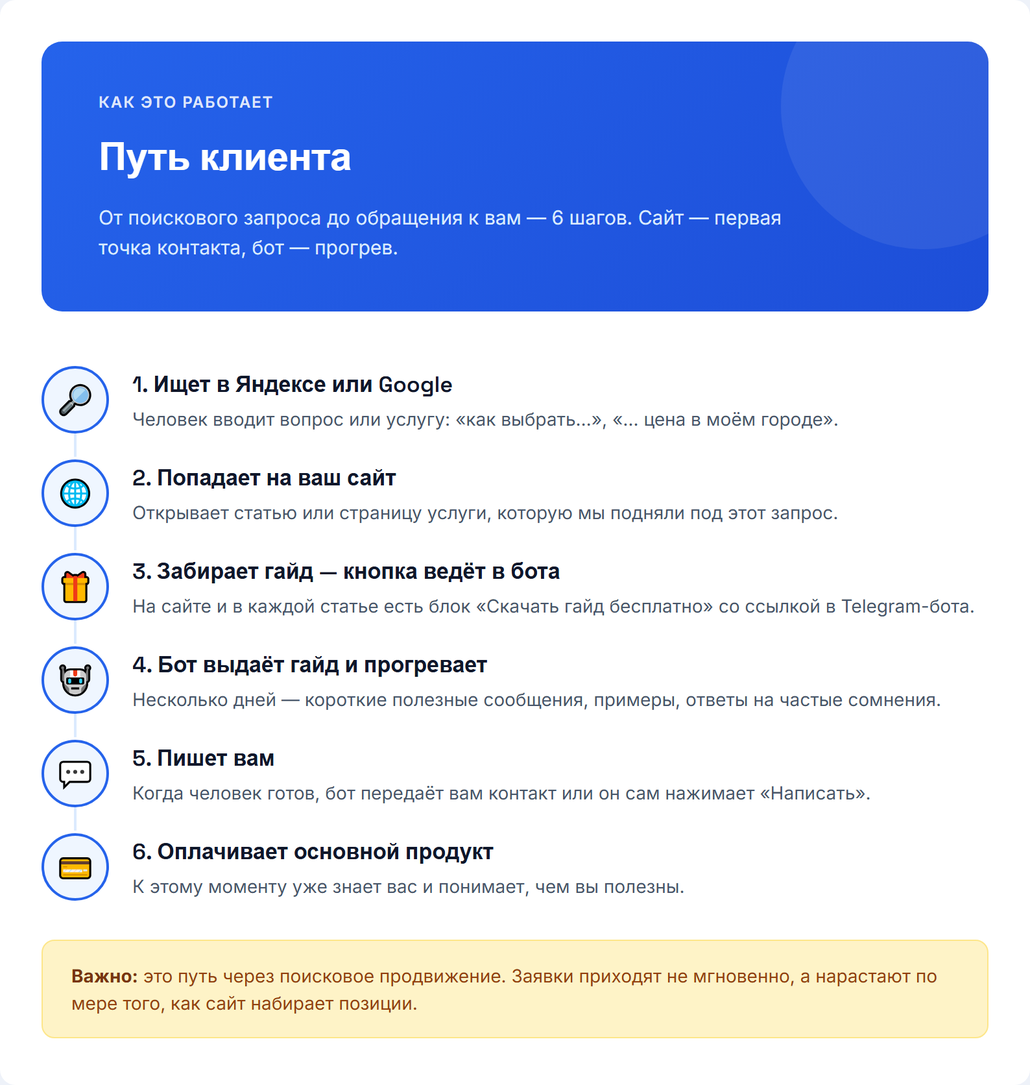
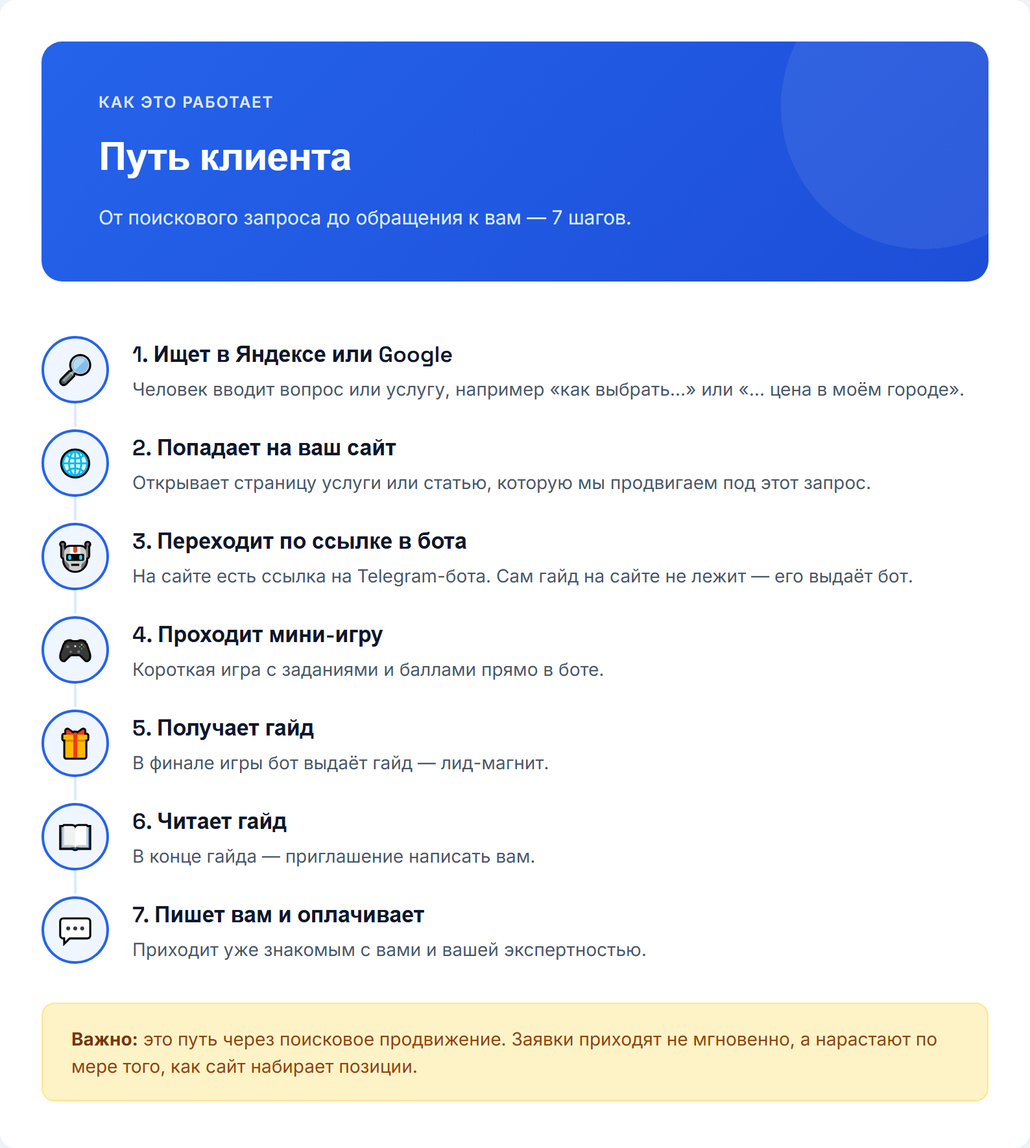
Rework funnel: paid SEO package, bot mini-game, bot promotion plan

Changed region(s): [[0.0309, 0.1866, 0.9565, 0.9641], [0.0926, 0.0622, 0.3394, 0.1555]]

diff --git a/index.html b/index.html
@@ -25,16 +25,13 @@ pre{white-space:pre-wrap;word-wrap:break-word;font:14px/1.55 'Inter',sans-serif;
 @media(max-width:820px){.item{grid-template-columns:34px 1fr}.pic,.txt{grid-column:1 / -1}.num{grid-row:1}}
 </style></head><body>
 <div class="top"><h1>Сообщения SEO-воронки — по порядку</h1>
-<p>Слева картинка, справа текст сообщения. Шаги идут в том порядке, в каком их отправляют клиенту.</p>
+<p><a href="bot-promotion.html" style="color:#1d4ed8;font-weight:600">Отдельно: план продвижения бота и гайда →</a></p><p>Слева картинка, справа текст сообщения. Шаги идут в том порядке, в каком их отправляют клиенту.</p>
 <span class="hint">📱 С телефона: зажмите картинку пальцем → «Сохранить в Фото». С компьютера: правая кнопка → «Сохранить картинку как…» или ссылка «Скачать файл».</span></div>
 <div class="list">
 <section class="item" id="m1">
   <div class="num">1</div>
   <div class="pic none">Без картинки</div>
-  <div class="txt"><h3>/первое_сообщение</h3><div class="meta">Без изменений.</div><pre>Это рабочий чат — здесь будем вести ваш проект от сегодняшнего дня до поставленных задач.
-
-Вести ваш проект будет проектный менеджер {ИМЯ_ПМ} — {НИК_ПМ}.
-У {ИМЯ_ПМ} большой опыт — поможет с вопросами и внесёт правки по необходимости.
+  <div class="txt"><h3>/первое_сообщение</h3><div class="meta">Без абзаца про проектного менеджера</div><pre>Это рабочий чат — здесь будем вести ваш проект от сегодняшнего дня до поставленных задач.
 
 Рады, что вы с нами 🙏</pre><button class="btn" data-i="0">Скопировать текст</button></div>
 </section>
@@ -70,50 +67,114 @@ pre{white-space:pre-wrap;word-wrap:break-word;font:14px/1.55 'Inter',sans-serif;
 <section class="item" id="m3">
   <div class="num">3</div>
   <div class="pic"><img src="img/terms.png" alt="/термины" loading="lazy" width="794"><a class="dl" href="img/terms.png" download="terms.png">Скачать файл</a></div>
-  <div class="txt"><h3>/термины</h3><div class="meta">Картинка «1 · термины» + подпись</div><pre>Пара терминов, которые будут встречаться в переписке — коротко объясняем:</pre><button class="btn" data-i="2">Скопировать текст</button></div>
+  <div class="txt"><h3>/термины</h3><div class="meta">Картинка + подпись</div><pre>Пара терминов, которые будут встречаться в переписке — коротко объясняем:</pre><button class="btn" data-i="2">Скопировать текст</button></div>
 </section>
 <section class="item" id="m4">
   <div class="num">4</div>
   <div class="pic"><img src="img/path.png" alt="/путь_клиента" loading="lazy" width="794"><a class="dl" href="img/path.png" download="path.png">Скачать файл</a></div>
-  <div class="txt"><h3>/путь_клиента</h3><div class="meta">Картинка «2 · путь клиента» + подпись</div><pre>Вот как человек проходит путь от поиска в Яндексе до обращения к вам.
+  <div class="txt"><h3>/путь_клиента</h3><div class="meta">Картинка + подпись</div><pre>Вот как человек проходит путь от поиска в Яндексе до обращения к вам.
 
 Важно: это путь через поисковое продвижение. Заявки приходят не мгновенно, а нарастают по мере того, как сайт набирает позиции.</pre><button class="btn" data-i="3">Скопировать текст</button></div>
 </section>
 <section class="item" id="m5">
   <div class="num">5</div>
-  <div class="pic none">Без картинки</div>
-  <div class="txt"><h3>/сайт_отправка</h3><div class="meta">Меняется абзац про заявки; правила правок оставляем как были</div><pre>Здравствуйте! @{НИК_КЛИЕНТА}
-
-Сайт:
-
-{ССЫЛКА_НА_САЙТ}
-
-Сайт — главная точка входа: его мы будем продвигать в поиске. Кнопки на сайте и в статьях ведут в Telegram-бота, где человек получает гайд и проходит прогрев. Для активации запустите бота по ссылке ниже:
-
-{DEEP_LINK_БОТА}
-
-Правки вносятся один раз — соберите все пожелания в одно текстовое сообщение (скриншоты и голосовые не принимаются техспециалистом), если потребуется что-то поправить.
-
-Если нужно добавить фото — присылайте ТОЛЬКО ссылкой на Яндекс.Диск с открытым доступом («доступно всем, у кого есть ссылка»), мы извлечём фото оттуда. По-другому техспециалист и программа файлы не принимают.
-
-Также нужно уточнить пару моментов:
-1. {ЗАГЛУШКА_1}
-2. {ЗАГЛУШКА_2}
-
-Когда напишете все правки, обязательно добавьте фразу, что это всё — так мы поймём, что можно брать правки в работу.</pre><button class="btn" data-i="4">Скопировать текст</button></div>
+  <div class="pic"><img src="img/bot.png" alt="/бот_как_работает (вместо /прогрев_бота)" loading="lazy" width="794"><a class="dl" href="img/bot.png" download="bot.png">Скачать файл</a></div>
+  <div class="txt"><h3>/бот_как_работает (вместо /прогрев_бота)</h3><div class="meta">Картинка + подпись. Мини-игра, без рассылок, без приёма сообщений</div><pre>Так будет работать бот: человек приходит по ссылке с сайта, проходит мини-игру, а в финале получает гайд. Задания и тексты согласуем с вами.</pre><button class="btn" data-i="4">Скопировать текст</button></div>
 </section>
 <section class="item" id="m6">
   <div class="num">6</div>
-  <div class="pic"><img src="img/pack.png" alt="/упаковка_готова" loading="lazy" width="794"><a class="dl" href="img/pack.png" download="pack.png">Скачать файл</a></div>
-  <div class="txt"><h3>/упаковка_готова</h3><div class="meta">Картинка «5 · упаковка» + текст</div><pre>Готов этап «Упаковка» — все материалы созданы: гайд, бот с прогревом и сайт, настроенный под поисковое продвижение.
+  <div class="pic none">Без картинки</div>
+  <div class="txt"><h3>/сайт_отправка</h3><div class="meta">Единый шаблон сдачи сайта. Без абзаца про блог и без доп. материалов (они теперь в платном пакете)</div><pre>Здравствуйте! @{НИК_КЛИЕНТА}
 
-Пожалуйста, посмотрите отчёт и напишите:
-«Принимаю» — если всё устраивает, переходим к следующему этапу</pre><button class="btn" data-i="5">Скопировать текст</button></div>
+Посадочная страница/сайт: {ССЫЛКА_НА_САЙТ}
+
+Заявки с сайта приходят в Telegram-бот — активируйте его по ссылке: {DEEP_LINK_БОТА}
+
+❗ Правки вносятся ТОЛЬКО один раз — соберите все в одно текстовое сообщение (скриншоты и голосовые не принимаются техспециалистом), если потребуется что-то поправить.
+
+❗ Если нужно добавить фото — присылайте ТОЛЬКО ссылкой на Яндекс.Диск с открытым доступом («доступно всем, у кого есть ссылка»), мы извлечём фото оттуда. По-другому техспециалист и программа файлы не принимают.
+
+❗ Когда напишете все правки, ОБЯЗАТЕЛЬНО добавьте фразу "это всё" — так мы поймём, что можно брать в работу.
+
+Также нужно уточнить пару моментов:
+
+{УТОЧНЕНИЕ_1}
+{УТОЧНЕНИЕ_2}</pre><button class="btn" data-i="5">Скопировать текст</button></div>
 </section>
 <section class="item" id="m7">
   <div class="num">7</div>
+  <div class="pic"><img src="img/pack.png" alt="/упаковка_готова" loading="lazy" width="794"><a class="dl" href="img/pack.png" download="pack.png">Скачать файл</a></div>
+  <div class="txt"><h3>/упаковка_готова</h3><div class="meta">Картинка + текст</div><pre>Готов этап «Упаковка» — все материалы созданы.
+
+Пожалуйста, посмотрите отчёт и напишите:
+«Принимаю» — если всё устраивает, переходим к следующему этапу</pre><button class="btn" data-i="6">Скопировать текст</button></div>
+</section>
+<section class="item" id="m8">
+  <div class="num">8</div>
+  <div class="pic"><img src="img/incl.png" alt="/seo_предложение (новое)" loading="lazy" width="794"><a class="dl" href="img/incl.png" download="incl.png">Скачать файл</a></div>
+  <div class="txt"><h3>/seo_предложение (новое)</h3><div class="meta">Картинка «Что входит» + основной текст. Взят из вашего сообщения про домен, цена и состав обновлены</div><pre>Здравствуйте! Предлагаем следующий шаг для вашего сайта: перенести его на собственный домен и запустить SEO-продвижение, чтобы заявки шли из поиска.
+
+Что предлагаем
+Переносим сайт на ваш домен (например, название-компании.ru) и после этого занимаемся его продвижением в Яндексе и Google. Что именно входит — на картинке.
+
+Почему это важно
+Адрес сайта — его фундамент: вся история, статьи и позиции копятся именно на нём. Свой домен принадлежит вам, внушает клиентам больше доверия и позволяет подключить фирменную почту. Подробно, с примерами и схемой переноса: https://murzzsite.github.io/domain-guide/
+
+Что мы будем делать
+Подберём запросы ваших клиентов, настроим сайт под поиск, будем писать статьи каждую неделю, оформим карточки на Яндекс Картах, 2ГИС и Google и каждый месяц присылать отчёт. Весь объём работ, со скриншотами и сроками: https://murzzsite.github.io/seo-work-guide/
+
+Сроки
+— Перенос на домен: 1–2 рабочих дня.
+— SEO-настройка сайта: 3–5 рабочих дней после переноса.
+— Тексты для карточек на картах: в течение 3 рабочих дней.
+— Первые статьи: от 1 статьи в неделю, начиная со второй недели.
+— Первые заметные результаты в поиске обычно появляются через 2–4 месяца. Гарантировать позиции и число заявок нельзя: они зависят от конкуренции в вашей нише и регионе.
+
+Как отчитаемся
+После переноса пришлём ссылку на сайт на новом домене. После SEO-настройки пришлём список сделанного. Дальше каждый месяц будем отправлять короткий отчёт: сколько страниц в поиске, по каким запросам показывается сайт, сколько человек пришло и что планируем дальше.
+
+Хотите заявки уже в первые дни?
+— Яндекс Директ (реклама для тех, кто уже ищет вашу услугу): https://murzzsite.github.io/direct-guide/
+— VK Реклама (показ по интересам и возрасту во ВКонтакте): https://murzzsite.github.io/vk-ads-guide/
+
+Стоимость
+7 500 ₽ — перенос сайта на домен и SEO-продвижение, включая блог со статьями, Распаковку, Рекомендации и три дополнительных материала. Домен оплачивается отдельно напрямую у регистратора, примерно 200–1 000 ₽ в год (чаще всего хватает 200 ₽), подскажем, где выгоднее. Порядок такой: оплата, затем перенос.
+
+Если вам подходит, напишите слово «домен» в ответ на это сообщение, и мы начнём.</pre><button class="btn" data-i="7">Скопировать текст</button></div>
+</section>
+<section class="item" id="m9">
+  <div class="num">9</div>
+  <div class="pic"><img src="img/unp.png" alt="/распаковка_состав (новое)" loading="lazy" width="794"><a class="dl" href="img/unp.png" download="unp.png">Скачать файл</a></div>
+  <div class="txt"><h3>/распаковка_состав (новое)</h3><div class="meta">Картинка + подпись</div><pre>Что входит в Распаковку — на картинке. Черновик уже заполнен по вашему брифу: вам нужно прочитать и поправить под себя. Материалы можно выкладывать у себя в соцсетях и получать дополнительных клиентов.</pre><button class="btn" data-i="8">Скопировать текст</button></div>
+</section>
+<section class="item" id="m10">
+  <div class="num">10</div>
+  <div class="pic"><img src="img/rec.png" alt="/рекомендации_состав (новое)" loading="lazy" width="794"><a class="dl" href="img/rec.png" download="rec.png">Скачать файл</a></div>
+  <div class="txt"><h3>/рекомендации_состав (новое)</h3><div class="meta">Картинка + подпись</div><pre>Что входит в Рекомендации — на картинке. Материалы для первых постов уже готовы: если соцсетей пока нет, создайте их и начните с нашего контента. Тексты и сценарии готовим мы, публикуете вы у себя.</pre><button class="btn" data-i="9">Скопировать текст</button></div>
+</section>
+<section class="item" id="m11">
+  <div class="num">11</div>
+  <div class="pic"><img src="img/extra.png" alt="/доп_материалы (новое)" loading="lazy" width="794"><a class="dl" href="img/extra.png" download="extra.png">Скачать файл</a></div>
+  <div class="txt"><h3>/доп_материалы (новое)</h3><div class="meta">Картинка + подпись. Теперь это часть платного пакета, а не бонус к сайту</div><pre>Три дополнительных материала под ваш оффер — скрипты продаж, продающая презентация и скрипт холодных сообщений. Они входят в стоимость продвижения, ссылки пришлём после оплаты.</pre><button class="btn" data-i="10">Скопировать текст</button></div>
+</section>
+<section class="item" id="m12">
+  <div class="num">12</div>
+  <div class="pic"><img src="img/time.png" alt="/сроки" loading="lazy" width="794"><a class="dl" href="img/time.png" download="time.png">Скачать файл</a></div>
+  <div class="txt"><h3>/сроки</h3><div class="meta">Картинка + подпись</div><pre>Сроки по этапам — на картинке. Это типовые ориентиры, не обещание: результат в поиске зависит от конкуренции в вашей нише.</pre><button class="btn" data-i="11">Скопировать текст</button></div>
+</section>
+<section class="item" id="m13">
+  <div class="num">13</div>
+  <div class="pic none">Без картинки</div>
+  <div class="txt"><h3>/оплата_принята (новое)</h3><div class="meta">Взято из вашего сообщения «Отлично, начинаем!», сумма обновлена</div><pre>Отлично, начинаем! 🙌
+
+Оплатить перенос сайта и SEO-продвижение (7 500 ₽) можно по ссылке: {ССЫЛКА_НА_ОПЛАТУ}
+
+Вышлите чек в чат, как проведёте оплату, мы добавим в этот чат технического специалиста. Он поможет подобрать и зарегистрировать домен и сам перенесёт сайт. От вас потребуется только выбрать название. Домен оплачивается отдельно у регистратора, программист подскажет, где выгоднее.</pre><button class="btn" data-i="12">Скопировать текст</button></div>
+</section>
+<section class="item" id="m14">
+  <div class="num">14</div>
   <div class="pic"><img src="img/reg.png" alt="/платформа_регистрация" loading="lazy" width="794"><a class="dl" href="img/reg.png" download="reg.png">Скачать файл</a></div>
-  <div class="txt"><h3>/платформа_регистрация</h3><div class="meta">Картинка «6 · регистрация». Убрали «пост-клик», пол/возраст/город, подачу трафика</div><pre>Что нужно сделать дальше:
+  <div class="txt"><h3>/платформа_регистрация</h3><div class="meta">Картинка + текст. Убрали «пост-клик», пол/возраст/город и подачу трафика</div><pre>Что нужно сделать дальше:
 
 1. Зарегистрируйтесь в личном кабинете по ссылке:
 {ССЫЛКА_НА_ПЛАТФОРМУ}
@@ -124,69 +185,12 @@ pre{white-space:pre-wrap;word-wrap:break-word;font:14px/1.55 'Inter',sans-serif;
 
 3. Прикрепите в личном кабинете подписанный акт — без него кабинет остаётся заблокирован.
 
-4. В кабинете вы увидите раздел «Распаковка», рекомендации и отчёты по задачам. Само продвижение сайта ведёт наша команда; от вас — согласования и ответы на вопросы.</pre><button class="btn" data-i="6">Скопировать текст</button></div>
+4. В кабинете вы увидите раздел «Распаковка», рекомендации и отчёты по задачам.</pre><button class="btn" data-i="13">Скопировать текст</button></div>
 </section>
-<section class="item" id="m8">
-  <div class="num">8</div>
+<section class="item" id="m15">
+  <div class="num">15</div>
   <div class="pic none">Без картинки</div>
-  <div class="txt"><h3>/seo_как_это_работает (вместо /трафик_воронка)</h3><div class="meta">Заменяет старое видео про пост-клик. Видео нужно перезаписать (см. сценарий ниже)</div><pre>Как это работает:
-
-Мы продвигаем ваш сайт в поиске — в Яндексе и Google — по запросам, которые вводят люди, когда ищут вашу услугу или ответ на свой вопрос. Человек приходит на сайт, видит предложение бесплатного гайда и по кнопке переходит в Telegram-бота. Бот выдаёт гайд и несколько дней прогревает полезными сообщениями. После этого человек сам пишет вам.
-
-Честно о сроках: SEO — не мгновенная реклама. Первые визиты из поиска обычно появляются через 3–6 недель, рост по средним запросам — через 2–4 месяца при регулярных публикациях. Позиции и число заявок гарантировать нельзя: они зависят от конкуренции в вашей нише и регионе. Зато результат накапливается и не пропадает, когда заканчивается бюджет.
-
-Что делаете вы:
-1. Согласовываете материалы и отвечаете на наши вопросы
-2. Когда человек пишет вам после бота — общаетесь с ним и ведёте к оплате
-3. Если нужно быстрее — можно подключить платную рекламу отдельно (список пришлём)
-
-Ваш персональный менеджер — {ИМЯ_ПМ} ({НИК_ПМ}). Поможет с настройками и ответит на вопросы.</pre><button class="btn" data-i="7">Скопировать текст</button></div>
-</section>
-<section class="item" id="m9">
-  <div class="num">9</div>
-  <div class="pic"><img src="img/time.png" alt="/сроки" loading="lazy" width="794"><a class="dl" href="img/time.png" download="time.png">Скачать файл</a></div>
-  <div class="txt"><h3>/сроки</h3><div class="meta">Картинка «4 · сроки» + подпись</div><pre>Что ожидать и когда — на картинке. Это типовые ориентиры, не обещание: сроки зависят от конкуренции в вашей нише.</pre><button class="btn" data-i="8">Скопировать текст</button></div>
-</section>
-<section class="item" id="m10">
-  <div class="num">10</div>
-  <div class="pic"><img src="img/bot.png" alt="/прогрев_бота" loading="lazy" width="794"><a class="dl" href="img/bot.png" download="bot.png">Скачать файл</a></div>
-  <div class="txt"><h3>/прогрев_бота</h3><div class="meta">Картинка «3 · прогрев» + подпись</div><pre>Так будет работать бот после того, как человек нажал кнопку на сайте. Тексты сообщений согласуем с вами — если что-то захотите изменить, скажите.</pre><button class="btn" data-i="9">Скопировать текст</button></div>
-</section>
-<section class="item" id="m11">
-  <div class="num">11</div>
-  <div class="pic"><img src="img/q.png" alt="/seo_вопросы (вместо /трафик_критерии)" loading="lazy" width="794"><a class="dl" href="img/q.png" download="q.png">Скачать файл</a></div>
-  <div class="txt"><h3>/seo_вопросы (вместо /трафик_критерии)</h3><div class="meta">Картинка «7 · что нужно уточнить» + текст</div><pre>Чтобы точно настроить продвижение, уточните, пожалуйста:
-
-1. В каких городах или регионах вы работаете (или онлайн по всей стране)?
-2. Какие 3–5 услуг для вас приоритетные?
-3. Как ваши клиенты называют эту услугу своими словами — что они вбивают в поиск?
-4. 2–3 сайта конкурентов, на которые вы ориентируетесь (по желанию)
-5. Есть ли у сайта свой домен?
-
-Можно голосовым.</pre><button class="btn" data-i="10">Скопировать текст</button></div>
-</section>
-<section class="item" id="m12">
-  <div class="num">12</div>
-  <div class="pic none">Без картинки</div>
-  <div class="txt"><h3>/менеджер_знакомство (вместо /трафик_менеджер)</h3><div class="meta">Убрали просьбу пополнить бюджет</div><pre>Здравствуйте 👋
-
-Я ваш персональный менеджер — {ИМЯ_ПМ} ({НИК_ПМ}). Начинаем продвигать ваш сайт в поиске.
-
-После регистрации в кабинете пришлите, пожалуйста, сюда логин и пароль.
-
-Первые недели уходят на настройку и индексацию сайта — заявок в это время ждать рано, это нормальный этап. Ориентиры по срокам — на картинке выше.
-
-Отличного дня! 🙂</pre><button class="btn" data-i="11">Скопировать текст</button></div>
-</section>
-<section class="item" id="m13">
-  <div class="num">13</div>
-  <div class="pic"><img src="img/road.png" alt="/дорожная_карта" loading="lazy" width="794"><a class="dl" href="img/road.png" download="road.png">Скачать файл</a></div>
-  <div class="txt"><h3>/дорожная_карта</h3><div class="meta">Картинка «8 · дорожная карта» + подпись</div><pre>Показываем всю дорогу сразу — какие этапы нас ждут от упаковки до итогов за 3 месяца.</pre><button class="btn" data-i="12">Скопировать текст</button></div>
-</section>
-<section class="item" id="m14">
-  <div class="num">14</div>
-  <div class="pic none">Без картинки</div>
-  <div class="txt"><h3>/видео_кабинет</h3><div class="meta">Текст чуть поправлен. Само видео про кабинет проверьте: если там звучит «подача трафика» — перезаписать</div><pre>Прикрепляем короткое видео, как работать в личном кабинете:
+  <div class="txt"><h3>/видео_кабинет</h3><div class="meta">Текст поправлен. Само видео проверьте: если там звучит «подача трафика» — перезаписать</div><pre>Прикрепляем короткое видео, как работать в личном кабинете:
 {ССЫЛКА_НА_ПЛАТФОРМУ}
 
 Что в видео:
@@ -194,7 +198,7 @@ pre{white-space:pre-wrap;word-wrap:break-word;font:14px/1.55 'Inter',sans-serif;
 — Раздел «Распаковка» — фундамент: кто ваш клиент, чем вы отличаетесь, как продаёте.
 Черновики уже готовы, нужно только поправить под себя.
 
-— Блок рекомендаций — что публиковать и куда, и как прикладывать отчёты, чтобы сайт набирал вес в поиске.
+— Блок рекомендаций — что публиковать и куда, и как прикладывать отчёты.
 
 Посмотрите один раз полностью — дальше будет легко ориентироваться самим.
 
@@ -202,39 +206,18 @@ pre{white-space:pre-wrap;word-wrap:break-word;font:14px/1.55 'Inter',sans-serif;
 1. Начните проходить задачи в блоке рекомендаций по порядку
 2. Прикладывайте отчёты к выполненным задачам — так быстрее проверим
 
-Вопросы — пишите сюда 🙂</pre><button class="btn" data-i="13">Скопировать текст</button></div>
-</section>
-<section class="item" id="m15">
-  <div class="num">15</div>
-  <div class="pic"><img src="img/tasks.png" alt="/задачи_команды" loading="lazy" width="794"><a class="dl" href="img/tasks.png" download="tasks.png">Скачать файл</a></div>
-  <div class="txt"><h3>/задачи_команды</h3><div class="meta">Картинка «9 · задачи» + текст</div><pre>Ставим постоянные задачи по продвижению вашего сайта — их наша команда делает без дополнительного бюджета с вашей стороны на весь срок сотрудничества.
-
-От вас нужно только согласовывать содержание — публикуем и ведём мы.
-
-Список задач — на картинке. Если всё устраивает, просто подтвердите — и запускаем.</pre><button class="btn" data-i="14">Скопировать текст</button></div>
+Вопросы — пишите сюда 🙂</pre><button class="btn" data-i="14">Скопировать текст</button></div>
 </section>
 <section class="item" id="m16">
   <div class="num">16</div>
   <div class="pic"><img src="img/boost.png" alt="/ускорители (вместо /подрядчики)" loading="lazy" width="794"><a class="dl" href="img/boost.png" download="boost.png">Скачать файл</a></div>
-  <div class="txt"><h3>/ускорители (вместо /подрядчики)</h3><div class="meta">Картинка «10 · ускорители» + текст</div><pre>Если захотите получать заявки быстрее, чем набирает вес SEO, можно параллельно подключить платные каналы — это отдельный бюджет, подключаем только по вашему желанию.
+  <div class="txt"><h3>/ускорители (вместо /подрядчики)</h3><div class="meta">Картинка + текст</div><pre>Если захотите получать заявки быстрее, чем набирает вес SEO, можно параллельно подключить платные каналы — это отдельный бюджет, подключаем только по вашему желанию.
 
-Список и цены — на картинке.
-
-Платная реклама ведёт на тот же сайт и в того же бота, так что всё работает вместе. Пишите — согласуем и запустим.</pre><button class="btn" data-i="15">Скопировать текст</button></div>
-</section>
-<section class="item" id="m17">
-  <div class="num">17</div>
-  <div class="pic none">Без картинки</div>
-  <div class="txt"><h3>Сценарий видео /seo_как_это_работает (1–1,5 мин)</h3><div class="meta">Вместо старого ролика про пост-клик. Запись экрана: сайт → кнопка → бот</div><pre>1. Экран: поисковая выдача по запросу вашей ниши. «Люди ищут услугу в Яндексе. Наша задача — чтобы они находили ваш сайт.»
-2. Экран: статья на сайте с блоком «Скачать гайд». «Статья отвечает на вопрос человека, а в конце — предложение забрать гайд.»
-3. Экран: переход в Telegram, бот выдаёт гайд. «Кнопка ведёт в бота, он выдаёт гайд бесплатно.»
-4. Экран: серия прогрева в боте. «Несколько дней бот присылает полезные сообщения.»
-5. Экран: кнопка «Написать». «Когда человек готов, он пишет вам.»
-6. Итог: «SEO набирает силу постепенно: первые визиты — через 3–6 недель, рост — через 2–4 месяца. Мы никому не обещаем мгновенных заявок.»</pre><button class="btn" data-i="16">Скопировать текст</button></div>
+Список и цены — на картинке. Пишите — согласуем и запустим.</pre><button class="btn" data-i="15">Скопировать текст</button></div>
 </section>
 </div>
 <script>
-const TEXTS=["Это рабочий чат — здесь будем вести ваш проект от сегодняшнего дня до поставленных задач.\n\nВести ваш проект будет проектный менеджер {ИМЯ_ПМ} — {НИК_ПМ}.\nУ {ИМЯ_ПМ} большой опыт — поможет с вопросами и внесёт правки по необходимости.\n\nРады, что вы с нами 🙏","Ответьте на вопросы ниже — это нужно для точных целевых заявок. Нет ответа или не уверены — просто пропускайте. Можно голосовым.\n\n🏢 О БИЗНЕСЕ\n1. Сфера/ниша (напр.: психолог, брокер по новостройкам)\n2. Конкретное предложение — что продаёте (напр.: «Продвижение Instagram»)\n3. Город(а) работы\n4. Тип клиента: B2B / B2C / B2G\n\n📊 ПОКАЗАТЕЛИ\n5. Сколько клиентов сейчас в месяц (напр.: 5)\n6. Желаемая выручка в месяц (напр.: 700 000 ₽)\n7. Клиентский цикл (разовая покупка / подписка / долгий проект)\n\n💰 УСЛУГИ И ЦЕНЫ\n8. Список услуг с ценами, нумеруйте 8.1, 8.2...\nНапр.: 8.1 Курс — от 999 ₽, 8.2 Сессия 1.5ч — 7 500 ₽\n\n👤 АУДИТОРИЯ\n9. Портрет идеального клиента (напр.: «Женщины 25-35, Москва»)\n10. Главная боль аудитории (напр.: «Нет заявок с сайта»)\n11. Ключевое возражение (напр.: «Дорого»)\n12. Измеримый результат (напр.: «+40% заявок»)\n13. УТП (напр.: «Первый месяц бесплатно»)\n\n🔗 Ссылки: ВК, ТГ, Instagram, бот, сайт, YouTube/Рутуб","Пара терминов, которые будут встречаться в переписке — коротко объясняем:","Вот как человек проходит путь от поиска в Яндексе до обращения к вам.\n\nВажно: это путь через поисковое продвижение. Заявки приходят не мгновенно, а нарастают по мере того, как сайт набирает позиции.","Здравствуйте! @{НИК_КЛИЕНТА}\n\nСайт:\n\n{ССЫЛКА_НА_САЙТ}\n\nСайт — главная точка входа: его мы будем продвигать в поиске. Кнопки на сайте и в статьях ведут в Telegram-бота, где человек получает гайд и проходит прогрев. Для активации запустите бота по ссылке ниже:\n\n{DEEP_LINK_БОТА}\n\nПравки вносятся один раз — соберите все пожелания в одно текстовое сообщение (скриншоты и голосовые не принимаются техспециалистом), если потребуется что-то поправить.\n\nЕсли нужно добавить фото — присылайте ТОЛЬКО ссылкой на Яндекс.Диск с открытым доступом («доступно всем, у кого есть ссылка»), мы извлечём фото оттуда. По-другому техспециалист и программа файлы не принимают.\n\nТакже нужно уточнить пару моментов:\n1. {ЗАГЛУШКА_1}\n2. {ЗАГЛУШКА_2}\n\nКогда напишете все правки, обязательно добавьте фразу, что это всё — так мы поймём, что можно брать правки в работу.","Готов этап «Упаковка» — все материалы созданы: гайд, бот с прогревом и сайт, настроенный под поисковое продвижение.\n\nПожалуйста, посмотрите отчёт и напишите:\n«Принимаю» — если всё устраивает, переходим к следующему этапу","Что нужно сделать дальше:\n\n1. Зарегистрируйтесь в личном кабинете по ссылке:\n{ССЫЛКА_НА_ПЛАТФОРМУ}\n\nИнвайт-код: {ИНВАЙТ_КОД}\n\n2. После регистрации подтвердите аккаунт через e-mail и пришлите нам логин и пароль — чтобы мы подключили ваш проект.\n\n3. Прикрепите в личном кабинете подписанный акт — без него кабинет остаётся заблокирован.\n\n4. В кабинете вы увидите раздел «Распаковка», рекомендации и отчёты по задачам. Само продвижение сайта ведёт наша команда; от вас — согласования и ответы на вопросы.","Как это работает:\n\nМы продвигаем ваш сайт в поиске — в Яндексе и Google — по запросам, которые вводят люди, когда ищут вашу услугу или ответ на свой вопрос. Человек приходит на сайт, видит предложение бесплатного гайда и по кнопке переходит в Telegram-бота. Бот выдаёт гайд и несколько дней прогревает полезными сообщениями. После этого человек сам пишет вам.\n\nЧестно о сроках: SEO — не мгновенная реклама. Первые визиты из поиска обычно появляются через 3–6 недель, рост по средним запросам — через 2–4 месяца при регулярных публикациях. Позиции и число заявок гарантировать нельзя: они зависят от конкуренции в вашей нише и регионе. Зато результат накапливается и не пропадает, когда заканчивается бюджет.\n\nЧто делаете вы:\n1. Согласовываете материалы и отвечаете на наши вопросы\n2. Когда человек пишет вам после бота — общаетесь с ним и ведёте к оплате\n3. Если нужно быстрее — можно подключить платную рекламу отдельно (список пришлём)\n\nВаш персональный менеджер — {ИМЯ_ПМ} ({НИК_ПМ}). Поможет с настройками и ответит на вопросы.","Что ожидать и когда — на картинке. Это типовые ориентиры, не обещание: сроки зависят от конкуренции в вашей нише.","Так будет работать бот после того, как человек нажал кнопку на сайте. Тексты сообщений согласуем с вами — если что-то захотите изменить, скажите.","Чтобы точно настроить продвижение, уточните, пожалуйста:\n\n1. В каких городах или регионах вы работаете (или онлайн по всей стране)?\n2. Какие 3–5 услуг для вас приоритетные?\n3. Как ваши клиенты называют эту услугу своими словами — что они вбивают в поиск?\n4. 2–3 сайта конкурентов, на которые вы ориентируетесь (по желанию)\n5. Есть ли у сайта свой домен?\n\nМожно голосовым.","Здравствуйте 👋\n\nЯ ваш персональный менеджер — {ИМЯ_ПМ} ({НИК_ПМ}). Начинаем продвигать ваш сайт в поиске.\n\nПосле регистрации в кабинете пришлите, пожалуйста, сюда логин и пароль.\n\nПервые недели уходят на настройку и индексацию сайта — заявок в это время ждать рано, это нормальный этап. Ориентиры по срокам — на картинке выше.\n\nОтличного дня! 🙂","Показываем всю дорогу сразу — какие этапы нас ждут от упаковки до итогов за 3 месяца.","Прикрепляем короткое видео, как работать в личном кабинете:\n{ССЫЛКА_НА_ПЛАТФОРМУ}\n\nЧто в видео:\n\n— Раздел «Распаковка» — фундамент: кто ваш клиент, чем вы отличаетесь, как продаёте.\nЧерновики уже готовы, нужно только поправить под себя.\n\n— Блок рекомендаций — что публиковать и куда, и как прикладывать отчёты, чтобы сайт набирал вес в поиске.\n\nПосмотрите один раз полностью — дальше будет легко ориентироваться самим.\n\nПосле просмотра:\n1. Начните проходить задачи в блоке рекомендаций по порядку\n2. Прикладывайте отчёты к выполненным задачам — так быстрее проверим\n\nВопросы — пишите сюда 🙂","Ставим постоянные задачи по продвижению вашего сайта — их наша команда делает без дополнительного бюджета с вашей стороны на весь срок сотрудничества.\n\nОт вас нужно только согласовывать содержание — публикуем и ведём мы.\n\nСписок задач — на картинке. Если всё устраивает, просто подтвердите — и запускаем.","Если захотите получать заявки быстрее, чем набирает вес SEO, можно параллельно подключить платные каналы — это отдельный бюджет, подключаем только по вашему желанию.\n\nСписок и цены — на картинке.\n\nПлатная реклама ведёт на тот же сайт и в того же бота, так что всё работает вместе. Пишите — согласуем и запустим.","1. Экран: поисковая выдача по запросу вашей ниши. «Люди ищут услугу в Яндексе. Наша задача — чтобы они находили ваш сайт.»\n2. Экран: статья на сайте с блоком «Скачать гайд». «Статья отвечает на вопрос человека, а в конце — предложение забрать гайд.»\n3. Экран: переход в Telegram, бот выдаёт гайд. «Кнопка ведёт в бота, он выдаёт гайд бесплатно.»\n4. Экран: серия прогрева в боте. «Несколько дней бот присылает полезные сообщения.»\n5. Экран: кнопка «Написать». «Когда человек готов, он пишет вам.»\n6. Итог: «SEO набирает силу постепенно: первые визиты — через 3–6 недель, рост — через 2–4 месяца. Мы никому не обещаем мгновенных заявок.»"];
+const TEXTS=["Это рабочий чат — здесь будем вести ваш проект от сегодняшнего дня до поставленных задач.\n\nРады, что вы с нами 🙏","Ответьте на вопросы ниже — это нужно для точных целевых заявок. Нет ответа или не уверены — просто пропускайте. Можно голосовым.\n\n🏢 О БИЗНЕСЕ\n1. Сфера/ниша (напр.: психолог, брокер по новостройкам)\n2. Конкретное предложение — что продаёте (напр.: «Продвижение Instagram»)\n3. Город(а) работы\n4. Тип клиента: B2B / B2C / B2G\n\n📊 ПОКАЗАТЕЛИ\n5. Сколько клиентов сейчас в месяц (напр.: 5)\n6. Желаемая выручка в месяц (напр.: 700 000 ₽)\n7. Клиентский цикл (разовая покупка / подписка / долгий проект)\n\n💰 УСЛУГИ И ЦЕНЫ\n8. Список услуг с ценами, нумеруйте 8.1, 8.2...\nНапр.: 8.1 Курс — от 999 ₽, 8.2 Сессия 1.5ч — 7 500 ₽\n\n👤 АУДИТОРИЯ\n9. Портрет идеального клиента (напр.: «Женщины 25-35, Москва»)\n10. Главная боль аудитории (напр.: «Нет заявок с сайта»)\n11. Ключевое возражение (напр.: «Дорого»)\n12. Измеримый результат (напр.: «+40% заявок»)\n13. УТП (напр.: «Первый месяц бесплатно»)\n\n🔗 Ссылки: ВК, ТГ, Instagram, бот, сайт, YouTube/Рутуб","Пара терминов, которые будут встречаться в переписке — коротко объясняем:","Вот как человек проходит путь от поиска в Яндексе до обращения к вам.\n\nВажно: это путь через поисковое продвижение. Заявки приходят не мгновенно, а нарастают по мере того, как сайт набирает позиции.","Так будет работать бот: человек приходит по ссылке с сайта, проходит мини-игру, а в финале получает гайд. Задания и тексты согласуем с вами.","Здравствуйте! @{НИК_КЛИЕНТА}\n\nПосадочная страница/сайт: {ССЫЛКА_НА_САЙТ}\n\nЗаявки с сайта приходят в Telegram-бот — активируйте его по ссылке: {DEEP_LINK_БОТА}\n\n❗ Правки вносятся ТОЛЬКО один раз — соберите все в одно текстовое сообщение (скриншоты и голосовые не принимаются техспециалистом), если потребуется что-то поправить.\n\n❗ Если нужно добавить фото — присылайте ТОЛЬКО ссылкой на Яндекс.Диск с открытым доступом («доступно всем, у кого есть ссылка»), мы извлечём фото оттуда. По-другому техспециалист и программа файлы не принимают.\n\n❗ Когда напишете все правки, ОБЯЗАТЕЛЬНО добавьте фразу \"это всё\" — так мы поймём, что можно брать в работу.\n\nТакже нужно уточнить пару моментов:\n\n{УТОЧНЕНИЕ_1}\n{УТОЧНЕНИЕ_2}","Готов этап «Упаковка» — все материалы созданы.\n\nПожалуйста, посмотрите отчёт и напишите:\n«Принимаю» — если всё устраивает, переходим к следующему этапу","Здравствуйте! Предлагаем следующий шаг для вашего сайта: перенести его на собственный домен и запустить SEO-продвижение, чтобы заявки шли из поиска.\n\nЧто предлагаем\nПереносим сайт на ваш домен (например, название-компании.ru) и после этого занимаемся его продвижением в Яндексе и Google. Что именно входит — на картинке.\n\nПочему это важно\nАдрес сайта — его фундамент: вся история, статьи и позиции копятся именно на нём. Свой домен принадлежит вам, внушает клиентам больше доверия и позволяет подключить фирменную почту. Подробно, с примерами и схемой переноса: https://murzzsite.github.io/domain-guide/\n\nЧто мы будем делать\nПодберём запросы ваших клиентов, настроим сайт под поиск, будем писать статьи каждую неделю, оформим карточки на Яндекс Картах, 2ГИС и Google и каждый месяц присылать отчёт. Весь объём работ, со скриншотами и сроками: https://murzzsite.github.io/seo-work-guide/\n\nСроки\n— Перенос на домен: 1–2 рабочих дня.\n— SEO-настройка сайта: 3–5 рабочих дней после переноса.\n— Тексты для карточек на картах: в течение 3 рабочих дней.\n— Первые статьи: от 1 статьи в неделю, начиная со второй недели.\n— Первые заметные результаты в поиске обычно появляются через 2–4 месяца. Гарантировать позиции и число заявок нельзя: они зависят от конкуренции в вашей нише и регионе.\n\nКак отчитаемся\nПосле переноса пришлём ссылку на сайт на новом домене. После SEO-настройки пришлём список сделанного. Дальше каждый месяц будем отправлять короткий отчёт: сколько страниц в поиске, по каким запросам показывается сайт, сколько человек пришло и что планируем дальше.\n\nХотите заявки уже в первые дни?\n— Яндекс Директ (реклама для тех, кто уже ищет вашу услугу): https://murzzsite.github.io/direct-guide/\n— VK Реклама (показ по интересам и возрасту во ВКонтакте): https://murzzsite.github.io/vk-ads-guide/\n\nСтоимость\n7 500 ₽ — перенос сайта на домен и SEO-продвижение, включая блог со статьями, Распаковку, Рекомендации и три дополнительных материала. Домен оплачивается отдельно напрямую у регистратора, примерно 200–1 000 ₽ в год (чаще всего хватает 200 ₽), подскажем, где выгоднее. Порядок такой: оплата, затем перенос.\n\nЕсли вам подходит, напишите слово «домен» в ответ на это сообщение, и мы начнём.","Что входит в Распаковку — на картинке. Черновик уже заполнен по вашему брифу: вам нужно прочитать и поправить под себя. Материалы можно выкладывать у себя в соцсетях и получать дополнительных клиентов.","Что входит в Рекомендации — на картинке. Материалы для первых постов уже готовы: если соцсетей пока нет, создайте их и начните с нашего контента. Тексты и сценарии готовим мы, публикуете вы у себя.","Три дополнительных материала под ваш оффер — скрипты продаж, продающая презентация и скрипт холодных сообщений. Они входят в стоимость продвижения, ссылки пришлём после оплаты.","Сроки по этапам — на картинке. Это типовые ориентиры, не обещание: результат в поиске зависит от конкуренции в вашей нише.","Отлично, начинаем! 🙌\n\nОплатить перенос сайта и SEO-продвижение (7 500 ₽) можно по ссылке: {ССЫЛКА_НА_ОПЛАТУ}\n\nВышлите чек в чат, как проведёте оплату, мы добавим в этот чат технического специалиста. Он поможет подобрать и зарегистрировать домен и сам перенесёт сайт. От вас потребуется только выбрать название. Домен оплачивается отдельно у регистратора, программист подскажет, где выгоднее.","Что нужно сделать дальше:\n\n1. Зарегистрируйтесь в личном кабинете по ссылке:\n{ССЫЛКА_НА_ПЛАТФОРМУ}\n\nИнвайт-код: {ИНВАЙТ_КОД}\n\n2. После регистрации подтвердите аккаунт через e-mail и пришлите нам логин и пароль — чтобы мы подключили ваш проект.\n\n3. Прикрепите в личном кабинете подписанный акт — без него кабинет остаётся заблокирован.\n\n4. В кабинете вы увидите раздел «Распаковка», рекомендации и отчёты по задачам.","Прикрепляем короткое видео, как работать в личном кабинете:\n{ССЫЛКА_НА_ПЛАТФОРМУ}\n\nЧто в видео:\n\n— Раздел «Распаковка» — фундамент: кто ваш клиент, чем вы отличаетесь, как продаёте.\nЧерновики уже готовы, нужно только поправить под себя.\n\n— Блок рекомендаций — что публиковать и куда, и как прикладывать отчёты.\n\nПосмотрите один раз полностью — дальше будет легко ориентироваться самим.\n\nПосле просмотра:\n1. Начните проходить задачи в блоке рекомендаций по порядку\n2. Прикладывайте отчёты к выполненным задачам — так быстрее проверим\n\nВопросы — пишите сюда 🙂","Если захотите получать заявки быстрее, чем набирает вес SEO, можно параллельно подключить платные каналы — это отдельный бюджет, подключаем только по вашему желанию.\n\nСписок и цены — на картинке. Пишите — согласуем и запустим."];
 document.querySelectorAll('.btn').forEach(b=>b.onclick=async()=>{
   const t=TEXTS[b.dataset.i];
   try{await navigator.clipboard.writeText(t);b.textContent='Скопировано ✓';}

diff --git a/bot-promotion.html b/bot-promotion.html
@@ -1,0 +1,74 @@
+<!doctype html>
+<html lang="ru"><head><meta charset="utf-8">
+<meta name="viewport" content="width=device-width, initial-scale=1">
+<meta name="robots" content="noindex, nofollow">
+<title>Продвижение бота и гайда</title>
+<link href="https://fonts.googleapis.com/css2?family=Inter:wght@400;500;600;700&family=Space+Grotesk:wght@500;600;700&display=swap" rel="stylesheet">
+<style>
+:root{--accent:#2563EB;--accent-dark:#1d4ed8;--accent-mid:#dbeafe;--accent-light:#eff6ff;--bg:#eef2f9;--text:#0f172a;--text-2:#475569;--text-3:#94a3b8;--border:#e2e8f0;--green-light:#dcfce7;--amber-light:#fef3c7;--amber:#92400e}
+*{box-sizing:border-box;margin:0;padding:0}
+body{font-family:'Inter',sans-serif;color:var(--text);background:var(--bg);font-size:15px;line-height:1.6}
+.wrap{max-width:820px;margin:0 auto;padding:24px 16px 60px}
+a.back{font-size:13px;color:var(--accent-dark);text-decoration:none}
+h1{font-family:'Space Grotesk',sans-serif;font-size:28px;margin:10px 0 6px}
+.lead{color:var(--text-2);margin-bottom:20px}
+.box{background:#fff;border:1px solid var(--border);border-radius:14px;padding:20px 22px;margin-bottom:14px}
+.box h2{font-family:'Space Grotesk',sans-serif;font-size:18px;margin-bottom:8px;display:flex;gap:10px;align-items:center}
+.box h2 i{font-style:normal;width:28px;height:28px;border-radius:50%;background:var(--accent);color:#fff;font-size:13px;display:flex;align-items:center;justify-content:center;flex-shrink:0}
+.box p,.box li{color:var(--text-2)}
+.box ul{padding-left:20px;margin-top:6px}
+.box li{margin:4px 0}
+.box b{color:var(--text)}
+code{background:#f1f5f9;border:1px solid var(--border);border-radius:5px;padding:1px 6px;font-size:13px}
+.note{border-radius:12px;padding:14px 18px;margin-bottom:14px;font-size:14px}
+.note.a{background:var(--amber-light);color:var(--amber)}
+.note.b{background:var(--accent-light);color:var(--accent-dark);border:1px solid var(--accent-mid)}
+table{width:100%;border-collapse:collapse;margin-top:8px;font-size:14px}
+th,td{text-align:left;padding:8px 10px;border-bottom:1px solid var(--border);vertical-align:top}
+th{color:var(--text-3);font-weight:600;font-size:12px;text-transform:uppercase;letter-spacing:.04em}
+</style></head><body><div class="wrap">
+<a class="back" href="./">← к сообщениям</a>
+<h1>Продвижение бота и гайда</h1>
+<p class="lead">Внутренний план: как приводить людей в бота (мини-игра → гайд) и как проверять, что это работает. Бот в поиске Яндекса или Google не ранжируется, поэтому людей в него нужно приводить с других площадок.</p>
+
+<div class="note a"><b>Честно о рамках.</b> Бот получает ровно столько людей, сколько приводят сайт, соцсети и реклама. Цифр конверсии из визита в прохождение игры у меня нет и придумывать их не буду: они появятся после первых недель замеров.</div>
+
+<div class="box"><h2><i>1</i>Ссылка на бота на сайте</h2>
+<p>Главный вход. Гайда на сайте нет — есть ссылка в бота.</p>
+<ul><li>Ссылка в первом экране главной и на страницах услуг.</li>
+<li>Блок с приглашением «Пройти мини-игру и получить гайд» в конце каждой статьи блога.</li>
+<li>У каждой ссылки своя метка: <code>t.me/бот?start=site_главная</code>, <code>start=site_статья-название</code>. Бот видит метку при старте, и мы знаем, какая страница приводит людей.</li></ul></div>
+
+<div class="box"><h2><i>2</i>Статьи блога как постоянный источник</h2>
+<p>Статьи из пакета SEO-продвижения отвечают на вопросы людей из поиска, а в конце ведут в бота. Это самый долгий, но самый дешёвый канал: трафик копится и не требует рекламного бюджета.</p></div>
+
+<div class="box"><h2><i>3</i>Соцсети клиента</h2>
+<p>Материалы для первых постов, видео и сторис (блок «Рекомендации») заканчиваются ссылкой на бота. Если соцсетей нет, помогаем стартовать с готовых материалов.</p>
+<ul><li>Фрагменты гайда можно превращать в посты: одна мысль гайда — один пост, в конце приглашение пройти игру.</li>
+<li>Ссылка на бота в закрепе канала, в шапке профиля и в описании видео на Рутубе и Ютубе.</li></ul></div>
+
+<div class="box"><h2><i>4</i>Карточки на картах и профили</h2>
+<p>В карточках Яндекс Карт, 2ГИС и Google указываем сайт, а где площадка позволяет — Telegram-контакт. Люди из локального поиска попадают на сайт и дальше к боту.</p></div>
+
+<div class="box"><h2><i>5</i>Платные каналы прямо в бота (по желанию)</h2>
+<p>Отдельный бюджет и отдельное решение клиента. Дают людей быстрее, чем SEO.</p>
+<ul><li>Telegram-посевы и ВК-реклама с ссылкой сразу на бота, с меткой источника.</li>
+<li>Яндекс Директ на страницу сайта, оттуда человек идёт в бота.</li></ul></div>
+
+<div class="box"><h2><i>6</i>Офлайн</h2>
+<p>Если у клиента есть очные встречи или печатные материалы: QR-код на визитке, буклете или чеке, ведущий в бота.</p></div>
+
+<div class="box"><h2><i>7</i>Что измеряем</h2>
+<table><tr><th>Показатель</th><th>Где виден</th></tr>
+<tr><td>Клики по ссылке на бота</td><td>Яндекс Метрика, цель «переход в бота»</td></tr>
+<tr><td>Запуски бота по меткам</td><td>В боте, если конструктор сохраняет метку старта (нужно проверить в Tripwire)</td></tr>
+<tr><td>Прошли игру и получили гайд</td><td>В боте (статистика по шагам)</td></tr>
+<tr><td>Написали клиенту после гайда</td><td>Только сам клиент: бот сообщений не принимает</td></tr></table>
+<p style="margin-top:10px">Через 3–4 недели после старта смотрим, на каком шаге люди отваливаются: на переходе с сайта, в начале игры или перед финалом. По этому правим тексты и задания.</p></div>
+
+<div class="box"><h2><i>8</i>Что делаю я, а что нужно от клиента</h2>
+<table><tr><th>Делаю я</th><th>Нужно от клиента</th></tr>
+<tr><td>Ссылки с метками на сайте и в статьях, цели в Метрике, тексты постов и описаний со ссылкой на бота, настройка меток в боте, разбор статистики</td><td>Аккаунты и доступы к соцсетям и картам, подтверждение владения карточками, публикации у себя, решение по платным каналам</td></tr></table></div>
+
+<div class="note b"><b>Предложение:</b> оформить это как отдельную услугу «Продвижение бота и гайда» после запуска SEO. Цену не ставила: скажите, как хотите её определить.</div>
+</div></body></html>
